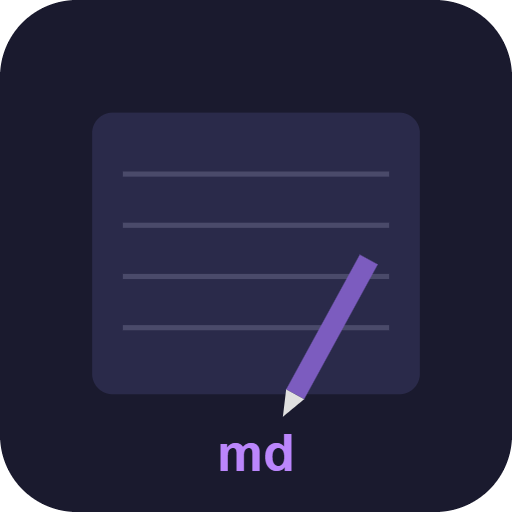
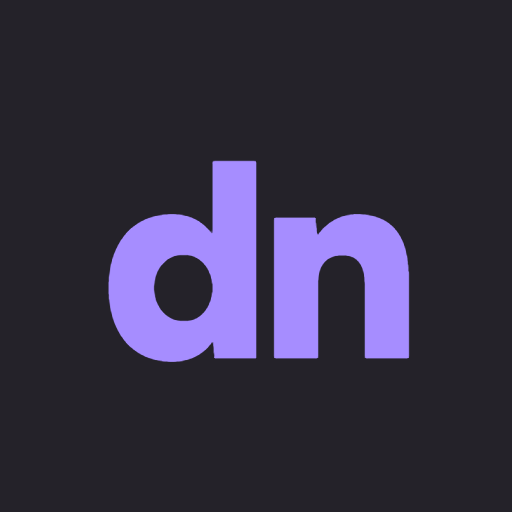
Identidade visual nova: cinza do Obsidian, Figtree e o ícone dn
- o tema era azul-marinho com um detalhe roxo, nao roxo. O fundo agora e o
  cinza neutro do tema escuro padrao do Obsidian, pro app e o vault
  parecerem a mesma casa, e o roxo vira a cor da casa em dois tons com
  papeis separados: 8b6cef preenche, a68dff escreve
- o degrau entre as camadas inverteu: o editor deixa de ser o mais escuro e
  o cabecalho e as barras e que sobem. As tres cores de fundo antigas eram
  quase indistinguiveis num celular
- Figtree na interface e IBM Plex Mono no editor, por CDN com versao fixa,
  no mesmo padrao do TinyMDE e do marked. O service worker guarda as duas,
  entao so a primeira visita depende da rede
- verde, laranja e vermelho de status saem dos cheios do Material antigo pra
  tons que convivem com o roxo. Eles pintam o ponto de nao salvo, o status
  de salvamento e os callouts de aviso
- color-scheme: dark no :root, senao a caixa vazia de uma tarefa sai branca
  no meio do texto escuro e a barra de rolagem sai clara
- botao destrutivo com texto escuro: branco sobre o vermelho novo dava 3:1,
  que reprova pra texto
- icone dn na Figtree, com o fundo sangrando ate a borda porque o manifest
  declara maskable e quem arredonda e o Android
- cache v20

diff --git a/style.css b/style.css
@@ -1,20 +1,35 @@
 /* Drive Notes — Mobile-first dark theme */
 
 :root {
-  --bg-primary: #1a1a2e;
-  --bg-secondary: #16213e;
-  --bg-editor: #0f0f1a;
-  --text-primary: #e0e0e0;
-  --text-secondary: #a0a0b0;
-  --accent: #7c5cbf;
-  --accent-hover: #9b7dd4;
-  --border: #2a2a4a;
-  --toolbar-bg: #16213e;
-  --button-bg: #2a2a4a;
-  --button-hover: #3a3a5a;
-  --success: #4caf50;
-  --warning: #ff9800;
-  --error: #f44336;
+  /* Os controles que o navegador desenha sozinho seguem o esquema declarado aqui, não o CSS.
+     Sem isto, a caixa VAZIA de uma tarefa sai branca no meio do texto escuro (a marcada já
+     pega o accent-color roxo de qualquer jeito), e a barra de rolagem sai clara. */
+  color-scheme: dark;
+
+  /* Cinza neutro, sem azul: o mesmo terreno do tema escuro padrão do Obsidian, pra o app e o
+     vault parecerem a mesma casa. O degrau é o contrário do que era: o corpo e o editor ficam
+     no tom mais escuro e o cromo (cabeçalho, barras) sobe, em vez do editor ser um buraco. */
+  --bg-primary: #1c1b1f;
+  --bg-secondary: #242229;
+  --bg-editor: #1c1b1f;
+  --text-primary: #e4e0e8;
+  --text-secondary: #928d99;
+  /* Dois tons do mesmo roxo, com papéis separados: o mais saturado preenche (cursor, checkbox,
+     barra de callout), o mais claro escreve (títulos, links), porque texto precisa de contraste. */
+  --accent: #8b6cef;
+  --accent-hover: #a68dff;
+  --border: #35323d;
+  --toolbar-bg: #242229;
+  --button-bg: #2f2c36;
+  --button-hover: #3a3644;
+  /* Desbotados de propósito: os cheios do Material antigo gritavam mais alto que o nome da nota */
+  --success: #6bbf7b;
+  --warning: #e0a458;
+  --error: #e5707b;
+  /* Figtree na interface, IBM Plex Mono no editor. Vêm do Google Fonts; sem rede o fallback
+     do sistema assume, e o layout não muda de tamanho porque as métricas são parecidas. */
+  --font-ui: "Figtree", system-ui, -apple-system, "Segoe UI", sans-serif;
+  --font-mono: "IBM Plex Mono", ui-monospace, "SF Mono", "Fira Code", monospace;
   /* Roxo da paleta de desenho: os outros cinco hexes vivem no SKETCH_COLORS do app.js */
   --sketch-purple: #8b6cef;
 }
@@ -31,7 +46,7 @@ html, body {
 }
 
 body {
-  font-family: -apple-system, BlinkMacSystemFont, 'Segoe UI', system-ui, sans-serif;
+  font-family: var(--font-ui);
   background: var(--bg-primary);
   color: var(--text-primary);
   display: flex;
@@ -155,7 +170,7 @@ body {
   min-height: 0;
   overflow-y: auto;
   padding: 16px;
-  font-family: 'SF Mono', 'Fira Code', 'Cascadia Code', monospace;
+  font-family: var(--font-mono);
   font-size: 15px;
   line-height: 1.6;
   background: var(--bg-editor);
@@ -168,12 +183,12 @@ body {
 /* TinyMDE inline styling overrides */
 /* Class names are the ones TinyMDE 0.1.8 actually emits (TMH1..6, TMStrong, TMEm),
    not the obvious ones. Check dist/tiny-mde.js before adding a selector here. */
-.TinyMDE .TMH1 { font-size: 1.5em; font-weight: 700; color: #bb86fc; }
-.TinyMDE .TMH2 { font-size: 1.3em; font-weight: 600; color: #bb86fc; }
-.TinyMDE .TMH3 { font-size: 1.1em; font-weight: 600; color: #bb86fc; }
+.TinyMDE .TMH1 { font-size: 1.5em; font-weight: 700; color: var(--accent-hover); }
+.TinyMDE .TMH2 { font-size: 1.3em; font-weight: 600; color: var(--accent-hover); }
+.TinyMDE .TMH3 { font-size: 1.1em; font-weight: 600; color: var(--accent-hover); }
 .TinyMDE .TMH4,
 .TinyMDE .TMH5,
-.TinyMDE .TMH6 { font-weight: 600; color: #bb86fc; }
+.TinyMDE .TMH6 { font-weight: 600; color: var(--accent-hover); }
 .TinyMDE .TMStrong { font-weight: 700; }
 .TinyMDE .TMEm { font-style: italic; }
 .TinyMDE .TMCode { background: rgba(255,255,255,0.08); padding: 1px 4px; border-radius: 3px; font-size: 0.9em; }
@@ -198,7 +213,7 @@ body {
   min-height: 0;
   width: 100%;
   padding: 16px;
-  font-family: 'SF Mono', 'Fira Code', 'Cascadia Code', monospace;
+  font-family: var(--font-mono);
   font-size: 15px;
   line-height: 1.6;
   background: var(--bg-editor);
@@ -236,9 +251,9 @@ body {
   padding-bottom: calc(32px + env(safe-area-inset-bottom, 0px));
 }
 
-.preview-container h1 { font-size: 1.5em; line-height: 1.25; margin: 1em 0 0.4em; color: #bb86fc; }
-.preview-container h2 { font-size: 1.3em; line-height: 1.3; margin: 1em 0 0.4em; color: #bb86fc; }
-.preview-container h3 { font-size: 1.1em; line-height: 1.35; margin: 0.9em 0 0.3em; color: #bb86fc; }
+.preview-container h1 { font-size: 1.5em; line-height: 1.25; margin: 1em 0 0.4em; color: var(--accent-hover); }
+.preview-container h2 { font-size: 1.3em; line-height: 1.3; margin: 1em 0 0.4em; color: var(--accent-hover); }
+.preview-container h3 { font-size: 1.1em; line-height: 1.35; margin: 0.9em 0 0.3em; color: var(--accent-hover); }
 .preview-container h4,
 .preview-container h5,
 .preview-container h6 { font-size: 1em; margin: 0.8em 0 0.3em; color: var(--accent-hover); }
@@ -341,13 +356,13 @@ body {
   margin: 0;
   border-radius: 0 0 6px 6px;
   white-space: pre-wrap;
-  font-family: 'SF Mono', 'Fira Code', monospace;
+  font-family: var(--font-mono);
 }
 .preview-container code {
   background: rgba(255,255,255,0.08);
   padding: 1px 4px;
   border-radius: 3px;
-  font-family: 'SF Mono', 'Fira Code', monospace;
+  font-family: var(--font-mono);
   font-size: 0.9em;
 }
 .preview-container pre {
@@ -507,7 +522,7 @@ body {
 .btn.btn-danger {
   background: var(--error);
   border-color: var(--error);
-  color: #fff;
+  color: var(--bg-primary);
 }
 
 .modal.modal-wide {
@@ -519,7 +534,7 @@ body {
   overflow: auto;
   margin-bottom: 12px;
   padding: 8px;
-  font-family: 'SF Mono', 'Fira Code', monospace;
+  font-family: var(--font-mono);
   font-size: 10px;
   line-height: 1.5;
   white-space: pre-wrap;

diff --git a/generate-icons.html b/generate-icons.html
@@ -1,76 +1,97 @@
 <!DOCTYPE html>
-<html>
-<head><title>Gerar ícones</title></head>
+<html lang="pt-BR">
+<head>
+<meta charset="utf-8">
+<title>Gerar ícones</title>
+<link rel="preconnect" href="https://fonts.googleapis.com">
+<link rel="preconnect" href="https://fonts.gstatic.com" crossorigin>
+<link rel="stylesheet" href="https://fonts.googleapis.com/css2?family=Figtree:wght@800&display=swap">
+<style>
+  body {
+    margin: 0;
+    padding: 32px;
+    background: #1c1b1f;
+    color: #e4e0e8;
+    font-family: "Figtree", system-ui, sans-serif;
+  }
+  h1 { font-size: 20px; margin: 0 0 6px; }
+  p { color: #928d99; font-size: 14px; line-height: 1.5; margin: 0 0 24px; max-width: 52ch; }
+  .row { display: flex; align-items: flex-end; gap: 24px; margin-bottom: 20px; }
+  .item { display: flex; flex-direction: column; gap: 10px; align-items: flex-start; }
+  .label { font-size: 12px; color: #928d99; }
+  canvas { display: block; }
+  /* O launcher recorta o ícone: este preview mostra o pior corte possível */
+  .masked { border-radius: 50%; overflow: hidden; display: block; }
+  button {
+    background: #8b6cef;
+    color: #1c1b1f;
+    border: 0;
+    border-radius: 9px;
+    padding: 10px 16px;
+    font-family: inherit;
+    font-size: 14px;
+    font-weight: 700;
+    cursor: pointer;
+  }
+</style>
+</head>
 <body>
-<p>Clique nos botões pra baixar os ícones. Depois salve na pasta drive-notes/.</p>
-<canvas id="c192" width="192" height="192"></canvas>
-<button onclick="download(192)">Baixar 192x192</button>
-<br><br>
-<canvas id="c512" width="512" height="512"></canvas>
-<button onclick="download(512)">Baixar 512x512</button>
+<h1>Ícones do Drive Notes</h1>
+<p>
+  Clique nos botões pra baixar e salve os dois arquivos aqui na pasta do projeto, por cima dos
+  que já existem. O fundo vai até a borda de propósito: o manifest declara os ícones como
+  <code>maskable</code>, então quem arredonda os cantos é o Android. O círculo da direita mostra
+  o corte mais agressivo que um launcher pode fazer.
+</p>
+
+<div class="row">
+  <div class="item">
+    <canvas id="c192" width="192" height="192"></canvas>
+    <span class="label">192 &times; 192</span>
+    <button onclick="download(192)">Baixar 192</button>
+  </div>
+  <div class="item">
+    <canvas id="c512" width="512" height="512" style="width: 192px; height: 192px;"></canvas>
+    <span class="label">512 &times; 512</span>
+    <button onclick="download(512)">Baixar 512</button>
+  </div>
+  <div class="item">
+    <span class="masked"><canvas id="cmask" width="192" height="192"></canvas></span>
+    <span class="label">como o launcher recorta</span>
+  </div>
+</div>
 
 <script>
-function drawIcon(size) {
-  const canvas = document.getElementById('c' + size);
+function drawIcon(canvas, s) {
   const ctx = canvas.getContext('2d');
-  const s = size;
 
-  // Background
-  ctx.fillStyle = '#1a1a2e';
-  ctx.beginPath();
-  ctx.roundRect(0, 0, s, s, s * 0.15);
-  ctx.fill();
+  // Fundo até a borda: sem raio desenhado, o sistema aplica a máscara dele
+  ctx.fillStyle = '#242229';
+  ctx.fillRect(0, 0, s, s);
 
-  // Notepad body
-  const pad = s * 0.18;
-  const w = s - pad * 2;
-  const h = s * 0.55;
-  const y = s * 0.22;
-  ctx.fillStyle = '#2a2a4a';
-  ctx.beginPath();
-  ctx.roundRect(pad, y, w, h, s * 0.04);
-  ctx.fill();
-
-  // Lines on notepad
-  ctx.strokeStyle = '#4a4a6a';
-  ctx.lineWidth = s * 0.01;
-  for (let i = 1; i <= 4; i++) {
-    const ly = y + h * (i / 5.5) + s * 0.02;
-    ctx.beginPath();
-    ctx.moveTo(pad + s * 0.06, ly);
-    ctx.lineTo(pad + w - s * 0.06, ly);
-    ctx.stroke();
-  }
-
-  // Pen/pencil
-  ctx.save();
-  ctx.translate(s * 0.62, s * 0.68);
-  ctx.rotate(0.5);
-  ctx.fillStyle = '#7c5cbf';
-  ctx.fillRect(-s * 0.015, -s * 0.2, s * 0.04, s * 0.3);
-  ctx.fillStyle = '#e0e0e0';
-  ctx.beginPath();
-  ctx.moveTo(-s * 0.015, s * 0.1);
-  ctx.lineTo(s * 0.025, s * 0.1);
-  ctx.lineTo(s * 0.005, s * 0.15);
-  ctx.fill();
-  ctx.restore();
-
-  // "md" text
-  ctx.fillStyle = '#bb86fc';
-  ctx.font = `bold ${s * 0.1}px -apple-system, sans-serif`;
+  // "dn" na Figtree, dentro da zona segura de 80% que a spec de maskable exige.
+  // Quem limita o tamanho aqui é a largura das duas letras, não a altura.
+  ctx.fillStyle = '#a68dff';
+  ctx.font = '800 ' + (s * 0.55) + 'px Figtree, sans-serif';
   ctx.textAlign = 'center';
-  ctx.fillText('md', s * 0.5, s * 0.92);
+  ctx.textBaseline = 'alphabetic';
+  if ('letterSpacing' in ctx) ctx.letterSpacing = (-s * 0.021) + 'px';
+  ctx.fillText('dn', s * 0.5, s * 0.70);
 }
 
-drawIcon(192);
-drawIcon(512);
+function drawAll() {
+  drawIcon(document.getElementById('c192'), 192);
+  drawIcon(document.getElementById('c512'), 512);
+  drawIcon(document.getElementById('cmask'), 192);
+}
+
+// Sem esperar a fonte carregar, o canvas desenha o "dn" na fonte de fallback
+document.fonts.load('800 100px Figtree').then(drawAll).catch(drawAll);
 
 function download(size) {
-  const canvas = document.getElementById('c' + size);
   const link = document.createElement('a');
   link.download = 'icon-' + size + '.png';
-  link.href = canvas.toDataURL('image/png');
+  link.href = document.getElementById('c' + size).toDataURL('image/png');
   link.click();
 }
 </script>

diff --git a/index.html b/index.html
@@ -4,7 +4,7 @@
   <meta charset="UTF-8">
   <!-- interactive-widget=resizes-content: the page shrinks when the keyboard opens, so the text being typed is never under it -->
   <meta name="viewport" content="width=device-width, initial-scale=1.0, viewport-fit=cover, interactive-widget=resizes-content">
-  <meta name="theme-color" content="#1a1a2e">
+  <meta name="theme-color" content="#242229">
   <meta name="apple-mobile-web-app-capable" content="yes">
   <meta name="apple-mobile-web-app-status-bar-style" content="black-translucent">
   <title>Drive Notes</title>
@@ -13,6 +13,13 @@
   <link rel="manifest" href="manifest.json">
   <link rel="icon" type="image/png" sizes="192x192" href="icon-192.png">
   <link rel="apple-touch-icon" href="icon-192.png">
+
+  <!-- Fontes: Figtree na interface, IBM Plex Mono no editor. Mesmo padrão das outras
+       bibliotecas, CDN com versão fixa. O service worker guarda as duas, então só a
+       primeira visita depende da rede; sem elas o fallback do sistema assume. -->
+  <link rel="preconnect" href="https://fonts.googleapis.com">
+  <link rel="preconnect" href="https://fonts.gstatic.com" crossorigin>
+  <link rel="stylesheet" href="https://fonts.googleapis.com/css2?family=Figtree:wght@400;500;600;700&family=IBM+Plex+Mono:wght@400;500;600&display=swap">
 
   <!-- Styles -->
   <link rel="stylesheet" href="style.css">

diff --git a/sw.js b/sw.js
@@ -1,14 +1,18 @@
 // Drive Notes: Service Worker
-const CACHE_NAME = 'drivenotes-v19';
+const CACHE_NAME = 'drivenotes-v20';
 
 // Editor, renderer and sanitizer come from CDNs; without them offline the app falls back
 // to a bare textarea and plain-text reading. Must match the script tags in index.html.
+// The Google Fonts stylesheet is here too, but the font files it names live on
+// fonts.gstatic.com under urls we cannot predict: those are caught at runtime by CDN_HOSTS
+// the first time a page renders, so the second visit already has the letters offline.
 const CDN_ASSETS = [
   'https://unpkg.com/tiny-markdown-editor@0.1.8/dist/tiny-mde.min.js',
   'https://cdn.jsdelivr.net/npm/marked@15.0.7/marked.min.js',
   'https://cdn.jsdelivr.net/npm/dompurify@3.2.6/dist/purify.min.js',
+  'https://fonts.googleapis.com/css2?family=Figtree:wght@400;500;600;700&family=IBM+Plex+Mono:wght@400;500;600&display=swap',
 ];
-const CDN_HOSTS = ['unpkg.com', 'cdn.jsdelivr.net'];
+const CDN_HOSTS = ['unpkg.com', 'cdn.jsdelivr.net', 'fonts.googleapis.com', 'fonts.gstatic.com'];
 
 // Static assets to cache for offline use
 const STATIC_ASSETS = [
